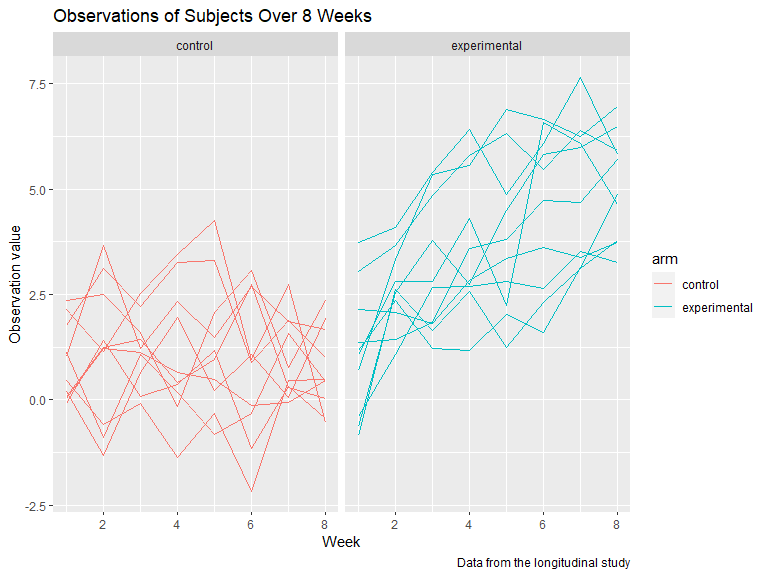
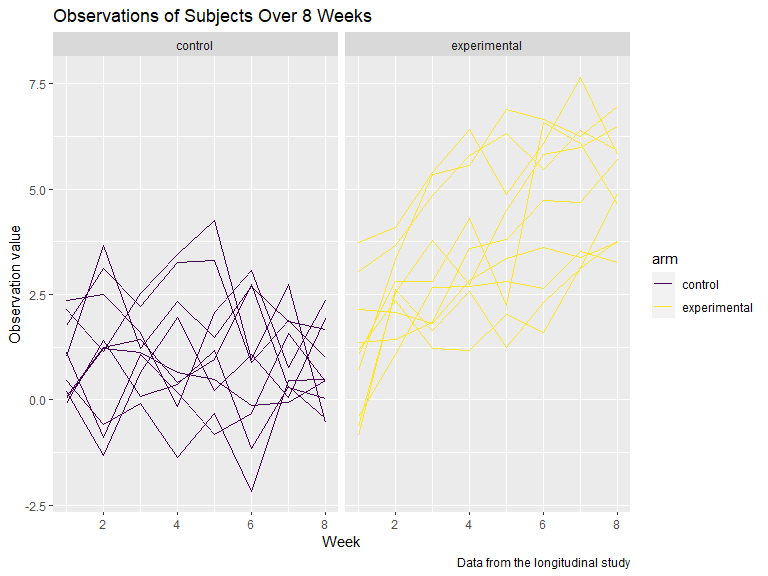
problem3 done

diff --git a/p8105_hw5_jl6048.md b/p8105_hw5_jl6048.md
@@ -1,7 +1,6 @@
 p8105\_hw5\_jl6048
 ================
 Jinghan Liu
-Nov. 16 2021
 
 ``` r
 library(tidyverse)
@@ -474,9 +473,55 @@ p2_df %>%
     y = "Observation value",
     caption = "Data from the longitudinal study"
   ) +
-  facet_grid(. ~ arm)
+  facet_grid(. ~ arm)+
+   viridis::scale_color_viridis(discrete = TRUE) + 
+  theme(legend.position = "right")
 ```
 
 <img src="p8105_hw5_jl6048_files/figure-gfm/unnamed-chunk-9-1.png" width="90%" />
-\*\* Comment: Obviously, the observation value of the experimental group
+**Comment**: Obviously, the observation value of the experimental group
 of the study is higher than that of the control group.
+
+## Problem 3
+
+``` r
+library(tidyverse)
+
+set.seed(10)
+
+iris_with_missing = iris %>% 
+  map_df(~replace(.x, sample(1:150, 20), NA)) %>%
+  mutate(Species = as.character(Species))
+```
+
+``` r
+fill_in_missing  = function(x){
+  
+  if (is.numeric(x)){
+    x = replace_na(x, mean(x, na.rm = TRUE))
+  } 
+  if (is.character(x)){
+     x = replace_na(x, "virginica")
+  }
+  x
+}
+
+iris_cleaned = map(iris_with_missing, fill_in_missing) %>% 
+  as_tibble() 
+iris_cleaned
+```
+
+    ## # A tibble: 150 x 5
+    ##    Sepal.Length Sepal.Width Petal.Length Petal.Width Species
+    ##           <dbl>       <dbl>        <dbl>       <dbl> <chr>  
+    ##  1         5.1          3.5         1.4         0.2  setosa 
+    ##  2         4.9          3           1.4         0.2  setosa 
+    ##  3         4.7          3.2         1.3         0.2  setosa 
+    ##  4         4.6          3.1         1.5         1.19 setosa 
+    ##  5         5            3.6         1.4         0.2  setosa 
+    ##  6         5.4          3.9         1.7         0.4  setosa 
+    ##  7         5.82         3.4         1.4         0.3  setosa 
+    ##  8         5            3.4         1.5         0.2  setosa 
+    ##  9         4.4          2.9         1.4         0.2  setosa 
+    ## 10         4.9          3.1         3.77        0.1  setosa 
+    ## # ... with 140 more rows
